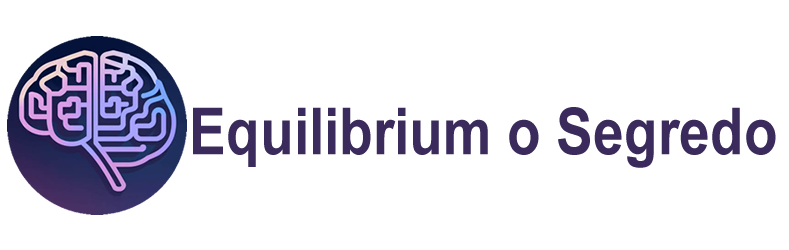
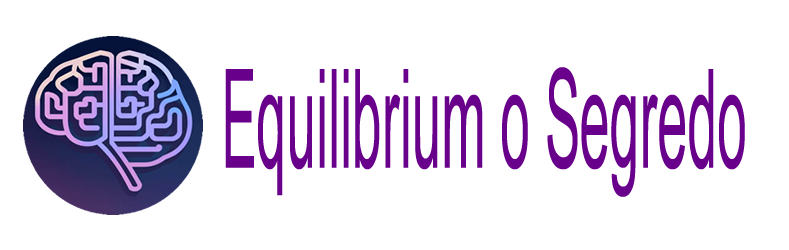
feat: estabilização do backend, design lilás e correções de UI

Changed region(s): [[0.0, 0.14, 1.0, 0.868], [0.4867, 0.28, 0.5171, 0.336]]

diff --git a/frontend/src/pages/Dashboard.jsx b/frontend/src/pages/Dashboard.jsx
@@ -7,6 +7,13 @@ const Dashboard = () => {
   const [activeContext, setActiveContext] = useState('geral');
   const [isSidebarOpen, setIsSidebarOpen] = useState(false);
   const [isDarkMode, setIsDarkMode] = useState(false);
+  const [language, setLanguage] = useState('pt');
+
+  const languages = {
+    pt: { flag: 'https://flagcdn.com/w40/br.png', code: 'PT' },
+    en: { flag: 'https://flagcdn.com/w40/us.png', code: 'EN' },
+    es: { flag: 'https://flagcdn.com/w40/es.png', code: 'ES' }
+  };
 
   // Fecha sidebar ao selecionar item no mobile
   useEffect(() => {
@@ -84,6 +91,33 @@ const Dashboard = () => {
           </div>
 
           <div className="flex items-center gap-2">
+            {/* Language Switcher */}
+            <div className="relative group">
+              <button className={`flex items-center gap-2 px-3 py-2 rounded-xl transition-all ${
+                isDarkMode ? 'bg-slate-800 text-slate-300 hover:bg-slate-700' : 'bg-slate-100 text-slate-600 hover:bg-slate-200'
+              }`}>
+                <img src={languages[language].flag} alt={language} className="w-5 h-auto rounded-sm" />
+                <span className="text-xs font-bold">{languages[language].code}</span>
+              </button>
+              
+              <div className={`absolute right-0 top-full mt-2 w-32 py-2 rounded-xl border shadow-xl opacity-0 invisible group-hover:opacity-100 group-hover:visible transition-all z-50 backdrop-blur-xl ${
+                isDarkMode ? 'bg-[#1a1a1c]/90 border-white/5' : 'bg-white/90 border-slate-100'
+              }`}>
+                {Object.entries(languages).map(([key, { flag, code }]) => (
+                  <button
+                    key={key}
+                    onClick={() => setLanguage(key)}
+                    className={`w-full flex items-center gap-3 px-4 py-2 text-sm transition-colors ${
+                      isDarkMode ? 'hover:bg-white/5 text-slate-300' : 'hover:bg-slate-50 text-slate-600'
+                    } ${language === key ? (isDarkMode ? 'text-brand-teal' : 'text-brand-teal font-bold') : ''}`}
+                  >
+                    <img src={flag} alt={code} className="w-5 h-auto rounded-sm" />
+                    <span className="font-medium">{code}</span>
+                  </button>
+                ))}
+              </div>
+            </div>
+
             <button
               onClick={toggleTheme}
               className={`p-2 rounded-xl transition-all ${
@@ -110,12 +144,14 @@ const Dashboard = () => {
                 </svg>
               )}
             </button>
-            <div className={`w-9 h-9 rounded-full flex items-center justify-center font-medium text-sm border-2 ${
+            <div className={`w-9 h-9 rounded-full flex items-center justify-center border-2 ${
               isDarkMode 
-                ? 'bg-slate-800 border-slate-700 text-brand-teal' 
-                : 'bg-slate-50 border-white text-brand-teal shadow-sm'
+                ? 'bg-slate-800 border-slate-700 text-slate-400' 
+                : 'bg-slate-50 border-white text-slate-400 shadow-sm'
             }`}>
-              US
+              <svg width="20" height="20" viewBox="0 0 24 24" fill="none" stroke="currentColor" strokeWidth="2">
+                <path d="M20 21v-2a4 4 0 0 0-4-4H8a4 4 0 0 0-4 4v2" /><circle cx="12" cy="7" r="4" />
+              </svg>
             </div>
           </div>
         </header>

diff --git a/frontend/src/components/Chat.jsx b/frontend/src/components/Chat.jsx
@@ -47,7 +47,7 @@ function parseStructuredReply(text) {
   return Object.keys(sections).length >= 3 ? sections : null;
 }
 
-const DetailedScoreBar = ({ text }) => {
+const DetailedScoreBar = ({ text, isDarkMode }) => {
   const scores = text.split(',').map(s => {
     const match = s.match(/(.*?):\s*(\d+)\s*\/\s*10/);
     if (match) return { label: match[1].trim(), score: parseInt(match[2], 10) };
@@ -62,11 +62,13 @@ const DetailedScoreBar = ({ text }) => {
         <div key={idx} className="flex flex-col gap-1.5">
           <div className="flex justify-between items-center text-[10px] font-medium uppercase tracking-wider text-slate-500">
             <span>{item.label}</span>
-            <span className="text-brand-teal font-bold">{item.score}/10</span>
+            <span className={`${isDarkMode ? 'text-[#ff4500]' : 'text-orange-600'} font-bold`}>{item.score}/10</span>
           </div>
           <div className="h-1.5 bg-slate-200 dark:bg-slate-800 rounded-full overflow-hidden">
             <div
-              className="h-full rounded-full bg-gradient-to-r from-brand-teal to-brand-lavender transition-all duration-700"
+              className={`h-full rounded-full transition-all duration-700 ${
+                isDarkMode ? 'bg-[#ff4500]' : 'bg-orange-500'
+              }`}
               style={{ width: `${item.score * 10}%` }}
             />
           </div>
@@ -93,7 +95,7 @@ const StructuredMessage = ({ text, isDarkMode }) => {
               <span>{label}</span>
             </div>
             {label === 'Score de decisão' ? (
-              <DetailedScoreBar text={value} />
+              <DetailedScoreBar text={value} isDarkMode={isDarkMode} />
             ) : (
               <p className={`text-sm leading-relaxed ${isDarkMode ? 'text-slate-200' : 'text-slate-700'}`}>{value}</p>
             )}
@@ -102,7 +104,7 @@ const StructuredMessage = ({ text, isDarkMode }) => {
       })}
       
       {text.includes('🔗') && (
-        <button className="w-full mt-4 flex items-center justify-center gap-2 bg-gradient-to-r from-brand-teal to-brand-lavender text-white px-4 py-3 rounded-xl text-sm font-semibold hover:opacity-90 transition-all shadow-md active:scale-[0.98]">
+        <button className="w-full mt-4 flex items-center justify-center gap-2 bg-[#a855f7] text-white px-4 py-3 rounded-xl text-sm font-semibold hover:opacity-90 transition-all shadow-md active:scale-[0.98]">
           <svg width="16" height="16" viewBox="0 0 24 24" fill="none" stroke="currentColor" strokeWidth="2" strokeLinecap="round" strokeLinejoin="round">
             <rect x="3" y="3" width="18" height="18" rx="2" ry="2"/>
             <line x1="3" y1="9" x2="21" y2="9"/>

diff --git a/backend/services/geminiService.js b/backend/services/geminiService.js
@@ -1,5 +1,7 @@
+import { GoogleGenerativeAI } from "@google/generative-ai";
+
 const API_KEY = process.env.GEMINI_API_KEY;
-const GEMINI_URL = `https://generativelanguage.googleapis.com/v1beta/models/gemini-1.5-flash:generateContent?key=${API_KEY}`;
+const genAI = new GoogleGenerativeAI(API_KEY);
 
 export const generateDecisionResponse = async (userMessage, context = 'geral') => {
     let contextInstruction = "";
@@ -47,29 +49,27 @@ Pergunta do usuário: "${userMessage}"
     `;
 
     try {
-        console.log("Chamando Gemini API (1.5 Flash)...");
-        const response = await fetch(GEMINI_URL, {
-            method: "POST",
-            headers: {
-                "Content-Type": "application/json",
-            },
-            body: JSON.stringify({
-                contents: [{ parts: [{ text: prompt }] }],
-                generationConfig: {
-                    temperature: 0.7,
-                }
-            }),
-        });
-
-        if (!response.ok) {
-            const errorData = await response.json();
-            throw new Error(errorData.error?.message || "Erro na API do Gemini");
-        }
-
-        const data = await response.json();
-        return data?.candidates?.[0]?.content?.parts?.[0]?.text || "Não consegui processar uma decisão no momento.";
+        console.log("Chamando Gemini via SDK...");
+        // Usando o nome exato que apareceu na lista de modelos disponíveis
+        const model = genAI.getGenerativeModel({ model: "gemini-flash-latest" });
+        
+        const result = await model.generateContent(prompt);
+        const response = await result.response;
+        return response.text() || "Não consegui processar uma decisão no momento.";
     } catch (error) {
-        console.error("Erro no Gemini Service:", error);
-        throw error;
+        console.error("Erro no Gemini Service (SDK):", error);
+        // Fallback para outro modelo da lista se o primeiro falhar
+        if (error.message.includes("not found") || error.message.includes("quota")) {
+            try {
+                console.log("Tentando fallback para gemini-2.0-flash...");
+                const modelFallback = genAI.getGenerativeModel({ model: "gemini-2.0-flash" });
+                const result = await modelFallback.generateContent(prompt);
+                const response = await result.response;
+                return response.text();
+            } catch (fallbackError) {
+                throw new Error("DEBUG_VERIFICADO: " + error.message);
+            }
+        }
+        throw new Error("DEBUG_VERIFICADO: " + error.message);
     }
 };

diff --git a/frontend/src/components/Sidebar.jsx b/frontend/src/components/Sidebar.jsx
@@ -73,16 +73,16 @@ const Sidebar = ({ activeContext, setActiveContext, isOpen, isDarkMode }) => {
     >
       {/* Logo */}
       <div className={`px-6 pt-6 pb-4 shrink-0 border-b ${isDarkMode ? 'border-white/5' : 'border-slate-100'}`}>
-        <div className="flex items-center gap-3">
-          <div className="w-8 h-8 rounded-xl bg-gradient-to-br from-brand-teal to-brand-lavender flex items-center justify-center shrink-0">
-            <svg width="16" height="16" viewBox="0 0 24 24" fill="none" stroke="white" strokeWidth="2">
-              <path d="M12 2L2 7l10 5 10-5-10-5zM2 17l10 5 10-5M2 12l10 5 10-5" />
-            </svg>
-          </div>
-          <div>
-            <p className={`font-display font-semibold text-sm leading-none ${isDarkMode ? 'text-white' : 'text-slate-900'}`}>Equilibrium</p>
-            <p className={`text-[10px] mt-0.5 tracking-wide uppercase ${isDarkMode ? 'text-slate-500' : 'text-slate-400'}`}>Decisão Inteligente</p>
-          </div>
+        <div className="relative flex items-center gap-3 py-1">
+          {/* Efeito de luz pulsante por trás da logo */}
+          <div className={`absolute -left-1 w-16 h-16 rounded-full blur-2xl animate-glow-pulse ${
+            isDarkMode ? 'bg-[#bef264]/40' : 'bg-[#fde047]/50'
+          }`}></div>
+          <img 
+            src="/equilibrium_1.fw.png" 
+            alt="Equilibrium Logo" 
+            className="h-12 w-auto relative z-10"
+          />
         </div>
       </div>
 
@@ -133,7 +133,7 @@ const Sidebar = ({ activeContext, setActiveContext, isOpen, isDarkMode }) => {
           <p className={`text-[10px] mb-3 leading-relaxed ${isDarkMode ? 'text-slate-400' : 'text-slate-500'}`}>
             Consultas ilimitadas, histórico completo e técnicas exclusivas.
           </p>
-          <button className="w-full bg-gradient-to-r from-brand-teal to-brand-lavender text-white text-[11px] font-medium py-2 rounded-lg hover:opacity-90 transition-opacity">
+          <button className="w-full bg-[#a855f7] text-white text-[11px] font-medium py-2 rounded-lg hover:opacity-90 transition-opacity">
             Assinar agora
           </button>
         </div>

diff --git a/backend/list-models.js b/backend/list-models.js
@@ -1,0 +1,22 @@
+import "dotenv/config";
+import fetch from "node-fetch";
+
+const API_KEY = process.env.GEMINI_API_KEY;
+const URL = `https://generativelanguage.googleapis.com/v1beta/models?key=${API_KEY}`;
+
+async function listModels() {
+    try {
+        const response = await fetch(URL);
+        const data = await response.json();
+        console.log("Modelos disponíveis:");
+        if (data.models) {
+            data.models.forEach(m => console.log(`- ${m.name}`));
+        } else {
+            console.log("Nenhum modelo encontrado ou erro na resposta:", data);
+        }
+    } catch (error) {
+        console.error("Erro ao listar modelos:", error);
+    }
+}
+
+listModels();

diff --git a/frontend/src/services/api.js b/frontend/src/services/api.js
@@ -23,7 +23,10 @@ export async function sendMessage(message, context = 'geral', history = []) {
 
   if (!response.ok) {
     const error = await response.json().catch(() => ({}));
-    throw new Error(error.error || `Erro ${response.status} na comunicação com o servidor.`);
+    const message = error.details 
+      ? `${error.error}: ${error.details}` 
+      : (error.error || `Erro ${response.status} na comunicação com o servidor.`);
+    throw new Error(message);
   }
 
   const data = await response.json();

diff --git a/backend/routes/chat.js b/backend/routes/chat.js
@@ -15,7 +15,11 @@ router.post("/", async (req, res) => {
         res.json({ reply });
     } catch (error) {
         console.error("Erro na rota de chat:", error);
-        res.status(500).json({ error: "Erro ao processar sua decisão. Tente novamente mais tarde." });
+        // Retorna o erro real para facilitar o diagnóstico do usuário
+        res.status(500).json({ 
+            error: "Erro ao processar sua decisão.",
+            details: error.message 
+        });
     }
 });
 

diff --git a/frontend/src/index.css b/frontend/src/index.css
@@ -64,6 +64,16 @@
 }
 
 
+@keyframes glow-pulse {
+  0% { transform: scale(0.85); opacity: 0.4; }
+  50% { transform: scale(1.1); opacity: 0.7; }
+  100% { transform: scale(0.85); opacity: 0.4; }
+}
+
+.animate-glow-pulse {
+  animation: glow-pulse 4s infinite ease-in-out;
+}
+
 @layer utilities {
   .no-scrollbar::-webkit-scrollbar { display: none; }
   .no-scrollbar { -ms-overflow-style: none; scrollbar-width: none; }
